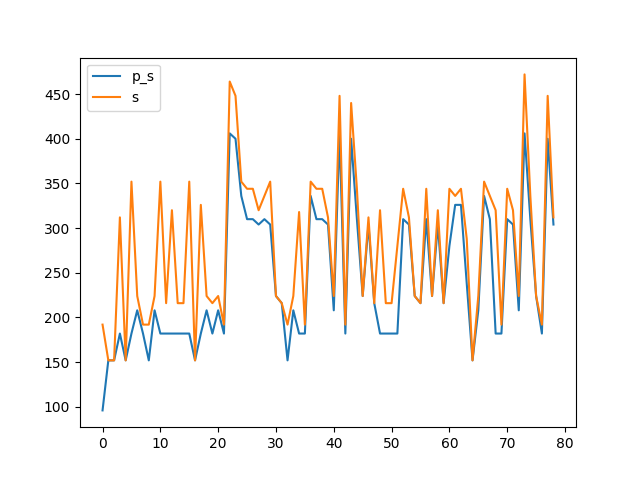
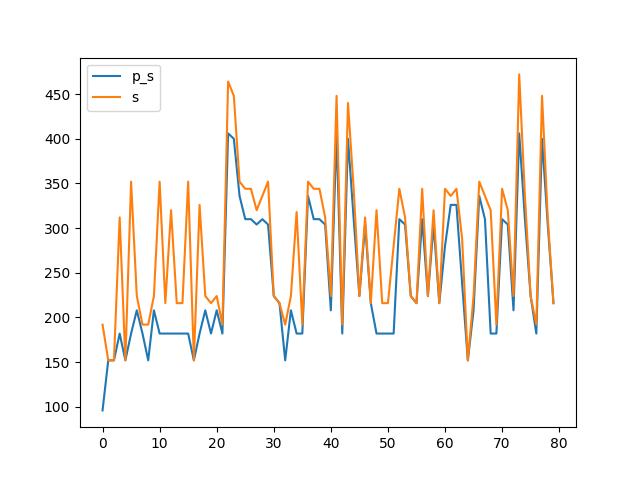
0x004F

diff --git a/benchmark.md b/benchmark.md
@@ -156,16 +156,18 @@ Synthesising 0x004D pexact:400 r=6 exact:448 r=5
 
 Synthesising 0x004E pexact:304 r=5 exact:312 r=4
 
+Synthesising 0x004F pexact:216 r=3 exact:216 r=3
+
 ```mermaid
 xychart-beta
     title "Comparison powertwoexact twoexact"
-    x-axis [0, 1, 2, 3, 4, 5, 6, 7, 8, 9, 10, 11, 12, 13, 14, 15, 16, 17, 18, 19, 20, 21, 22, 23, 24, 25, 26, 27, 28, 29, 30, 31, 32, 33, 34, 35, 36, 37, 38, 39, 40, 41, 42, 43, 44, 45, 46, 47, 48, 49, 50, 51, 52, 53, 54, 55, 56, 57, 58, 59, 60, 61, 62, 63, 64, 65, 66, 67, 68, 69, 70, 71, 72, 73, 74, 75, 76, 77, 78]
+    x-axis [0, 1, 2, 3, 4, 5, 6, 7, 8, 9, 10, 11, 12, 13, 14, 15, 16, 17, 18, 19, 20, 21, 22, 23, 24, 25, 26, 27, 28, 29, 30, 31, 32, 33, 34, 35, 36, 37, 38, 39, 40, 41, 42, 43, 44, 45, 46, 47, 48, 49, 50, 51, 52, 53, 54, 55, 56, 57, 58, 59, 60, 61, 62, 63, 64, 65, 66, 67, 68, 69, 70, 71, 72, 73, 74, 75, 76, 77, 78, 79]
     y-axis "Switching Activity" 0-->472
-    line [96, 152, 152, 182, 152, 182, 208, 182, 152, 208, 182, 182, 182, 182, 182, 182, 152, 182, 208, 182, 208, 182, 406, 400, 336, 310, 310, 304, 310, 304, 224, 216, 152, 208, 182, 182, 336, 310, 310, 304, 208, 406, 182, 400, 310, 224, 304, 216, 182, 182, 182, 182, 310, 304, 224, 216, 310, 224, 304, 216, 280, 326, 326, 238, 152, 208, 336, 310, 182, 182, 310, 304, 208, 406, 310, 224, 182, 400, 304]
-    line [192, 152, 152, 312, 152, 352, 224, 192, 192, 224, 352, 216, 320, 216, 216, 352, 152, 326, 224, 216, 224, 192, 464, 448, 352, 344, 344, 320, 336, 352, 224, 216, 192, 224, 318, 192, 352, 344, 344, 312, 224, 448, 192, 440, 344, 224, 312, 216, 320, 216, 216, 280, 344, 312, 224, 216, 344, 224, 320, 216, 344, 336, 344, 288, 152, 224, 352, 336, 320, 192, 344, 320, 224, 472, 336, 224, 192, 448, 312]
-    line [243.67088607594937, 243.67088607594937, 243.67088607594937, 243.67088607594937, 243.67088607594937, 243.67088607594937, 243.67088607594937, 243.67088607594937, 243.67088607594937, 243.67088607594937, 243.67088607594937, 243.67088607594937, 243.67088607594937, 243.67088607594937, 243.67088607594937, 243.67088607594937, 243.67088607594937, 243.67088607594937, 243.67088607594937, 243.67088607594937, 243.67088607594937, 243.67088607594937, 243.67088607594937, 243.67088607594937, 243.67088607594937, 243.67088607594937, 243.67088607594937, 243.67088607594937, 243.67088607594937, 243.67088607594937, 243.67088607594937, 243.67088607594937, 243.67088607594937, 243.67088607594937, 243.67088607594937, 243.67088607594937, 243.67088607594937, 243.67088607594937, 243.67088607594937, 243.67088607594937, 243.67088607594937, 243.67088607594937, 243.67088607594937, 243.67088607594937, 243.67088607594937, 243.67088607594937, 243.67088607594937, 243.67088607594937, 243.67088607594937, 243.67088607594937, 243.67088607594937, 243.67088607594937, 243.67088607594937, 243.67088607594937, 243.67088607594937, 243.67088607594937, 243.67088607594937, 243.67088607594937, 243.67088607594937, 243.67088607594937, 243.67088607594937, 243.67088607594937, 243.67088607594937, 243.67088607594937, 243.67088607594937, 243.67088607594937, 243.67088607594937, 243.67088607594937, 243.67088607594937, 243.67088607594937, 243.67088607594937, 243.67088607594937, 243.67088607594937, 243.67088607594937, 243.67088607594937, 243.67088607594937, 243.67088607594937, 243.67088607594937, 243.67088607594937]
-    line [281.26582278481015, 281.26582278481015, 281.26582278481015, 281.26582278481015, 281.26582278481015, 281.26582278481015, 281.26582278481015, 281.26582278481015, 281.26582278481015, 281.26582278481015, 281.26582278481015, 281.26582278481015, 281.26582278481015, 281.26582278481015, 281.26582278481015, 281.26582278481015, 281.26582278481015, 281.26582278481015, 281.26582278481015, 281.26582278481015, 281.26582278481015, 281.26582278481015, 281.26582278481015, 281.26582278481015, 281.26582278481015, 281.26582278481015, 281.26582278481015, 281.26582278481015, 281.26582278481015, 281.26582278481015, 281.26582278481015, 281.26582278481015, 281.26582278481015, 281.26582278481015, 281.26582278481015, 281.26582278481015, 281.26582278481015, 281.26582278481015, 281.26582278481015, 281.26582278481015, 281.26582278481015, 281.26582278481015, 281.26582278481015, 281.26582278481015, 281.26582278481015, 281.26582278481015, 281.26582278481015, 281.26582278481015, 281.26582278481015, 281.26582278481015, 281.26582278481015, 281.26582278481015, 281.26582278481015, 281.26582278481015, 281.26582278481015, 281.26582278481015, 281.26582278481015, 281.26582278481015, 281.26582278481015, 281.26582278481015, 281.26582278481015, 281.26582278481015, 281.26582278481015, 281.26582278481015, 281.26582278481015, 281.26582278481015, 281.26582278481015, 281.26582278481015, 281.26582278481015, 281.26582278481015, 281.26582278481015, 281.26582278481015, 281.26582278481015, 281.26582278481015, 281.26582278481015, 281.26582278481015, 281.26582278481015, 281.26582278481015, 281.26582278481015]
-    bar [80, 60, 60, 80, 60, 80, 80, 80, 60, 80, 80, 80, 80, 80, 80, 80, 60, 80, 80, 80, 80, 80, 120, 120, 100, 100, 100, 100, 100, 100, 60, 60, 60, 80, 80, 80, 100, 100, 100, 100, 80, 120, 80, 120, 100, 60, 100, 60, 80, 80, 80, 80, 100, 100, 60, 60, 100, 60, 100, 60, 80, 100, 100, 100, 60, 80, 100, 100, 80, 80, 100, 100, 80, 120, 100, 60, 80, 120, 100]
-    bar [80, 60, 60, 80, 60, 80, 60, 60, 60, 60, 80, 60, 80, 60, 60, 80, 60, 80, 60, 60, 60, 60, 100, 100, 80, 80, 80, 80, 80, 80, 60, 60, 60, 60, 80, 60, 80, 80, 80, 80, 60, 100, 60, 100, 80, 60, 80, 60, 80, 60, 60, 80, 80, 80, 60, 60, 80, 60, 80, 60, 80, 80, 80, 80, 60, 60, 80, 80, 80, 60, 80, 80, 60, 100, 80, 60, 60, 100, 80]
+    line [96, 152, 152, 182, 152, 182, 208, 182, 152, 208, 182, 182, 182, 182, 182, 182, 152, 182, 208, 182, 208, 182, 406, 400, 336, 310, 310, 304, 310, 304, 224, 216, 152, 208, 182, 182, 336, 310, 310, 304, 208, 406, 182, 400, 310, 224, 304, 216, 182, 182, 182, 182, 310, 304, 224, 216, 310, 224, 304, 216, 280, 326, 326, 238, 152, 208, 336, 310, 182, 182, 310, 304, 208, 406, 310, 224, 182, 400, 304, 216]
+    line [192, 152, 152, 312, 152, 352, 224, 192, 192, 224, 352, 216, 320, 216, 216, 352, 152, 326, 224, 216, 224, 192, 464, 448, 352, 344, 344, 320, 336, 352, 224, 216, 192, 224, 318, 192, 352, 344, 344, 312, 224, 448, 192, 440, 344, 224, 312, 216, 320, 216, 216, 280, 344, 312, 224, 216, 344, 224, 320, 216, 344, 336, 344, 288, 152, 224, 352, 336, 320, 192, 344, 320, 224, 472, 336, 224, 192, 448, 312, 216]
+    line [243.325, 243.325, 243.325, 243.325, 243.325, 243.325, 243.325, 243.325, 243.325, 243.325, 243.325, 243.325, 243.325, 243.325, 243.325, 243.325, 243.325, 243.325, 243.325, 243.325, 243.325, 243.325, 243.325, 243.325, 243.325, 243.325, 243.325, 243.325, 243.325, 243.325, 243.325, 243.325, 243.325, 243.325, 243.325, 243.325, 243.325, 243.325, 243.325, 243.325, 243.325, 243.325, 243.325, 243.325, 243.325, 243.325, 243.325, 243.325, 243.325, 243.325, 243.325, 243.325, 243.325, 243.325, 243.325, 243.325, 243.325, 243.325, 243.325, 243.325, 243.325, 243.325, 243.325, 243.325, 243.325, 243.325, 243.325, 243.325, 243.325, 243.325, 243.325, 243.325, 243.325, 243.325, 243.325, 243.325, 243.325, 243.325, 243.325, 243.325]
+    line [280.45, 280.45, 280.45, 280.45, 280.45, 280.45, 280.45, 280.45, 280.45, 280.45, 280.45, 280.45, 280.45, 280.45, 280.45, 280.45, 280.45, 280.45, 280.45, 280.45, 280.45, 280.45, 280.45, 280.45, 280.45, 280.45, 280.45, 280.45, 280.45, 280.45, 280.45, 280.45, 280.45, 280.45, 280.45, 280.45, 280.45, 280.45, 280.45, 280.45, 280.45, 280.45, 280.45, 280.45, 280.45, 280.45, 280.45, 280.45, 280.45, 280.45, 280.45, 280.45, 280.45, 280.45, 280.45, 280.45, 280.45, 280.45, 280.45, 280.45, 280.45, 280.45, 280.45, 280.45, 280.45, 280.45, 280.45, 280.45, 280.45, 280.45, 280.45, 280.45, 280.45, 280.45, 280.45, 280.45, 280.45, 280.45, 280.45, 280.45]
+    bar [80, 60, 60, 80, 60, 80, 80, 80, 60, 80, 80, 80, 80, 80, 80, 80, 60, 80, 80, 80, 80, 80, 120, 120, 100, 100, 100, 100, 100, 100, 60, 60, 60, 80, 80, 80, 100, 100, 100, 100, 80, 120, 80, 120, 100, 60, 100, 60, 80, 80, 80, 80, 100, 100, 60, 60, 100, 60, 100, 60, 80, 100, 100, 100, 60, 80, 100, 100, 80, 80, 100, 100, 80, 120, 100, 60, 80, 120, 100, 60]
+    bar [80, 60, 60, 80, 60, 80, 60, 60, 60, 60, 80, 60, 80, 60, 60, 80, 60, 80, 60, 60, 60, 60, 100, 100, 80, 80, 80, 80, 80, 80, 60, 60, 60, 60, 80, 60, 80, 80, 80, 80, 60, 100, 60, 100, 80, 60, 80, 60, 80, 60, 60, 80, 80, 80, 60, 60, 80, 60, 80, 60, 80, 80, 80, 80, 60, 60, 80, 80, 80, 60, 80, 80, 60, 100, 80, 60, 60, 100, 80, 60]
 ```
 
